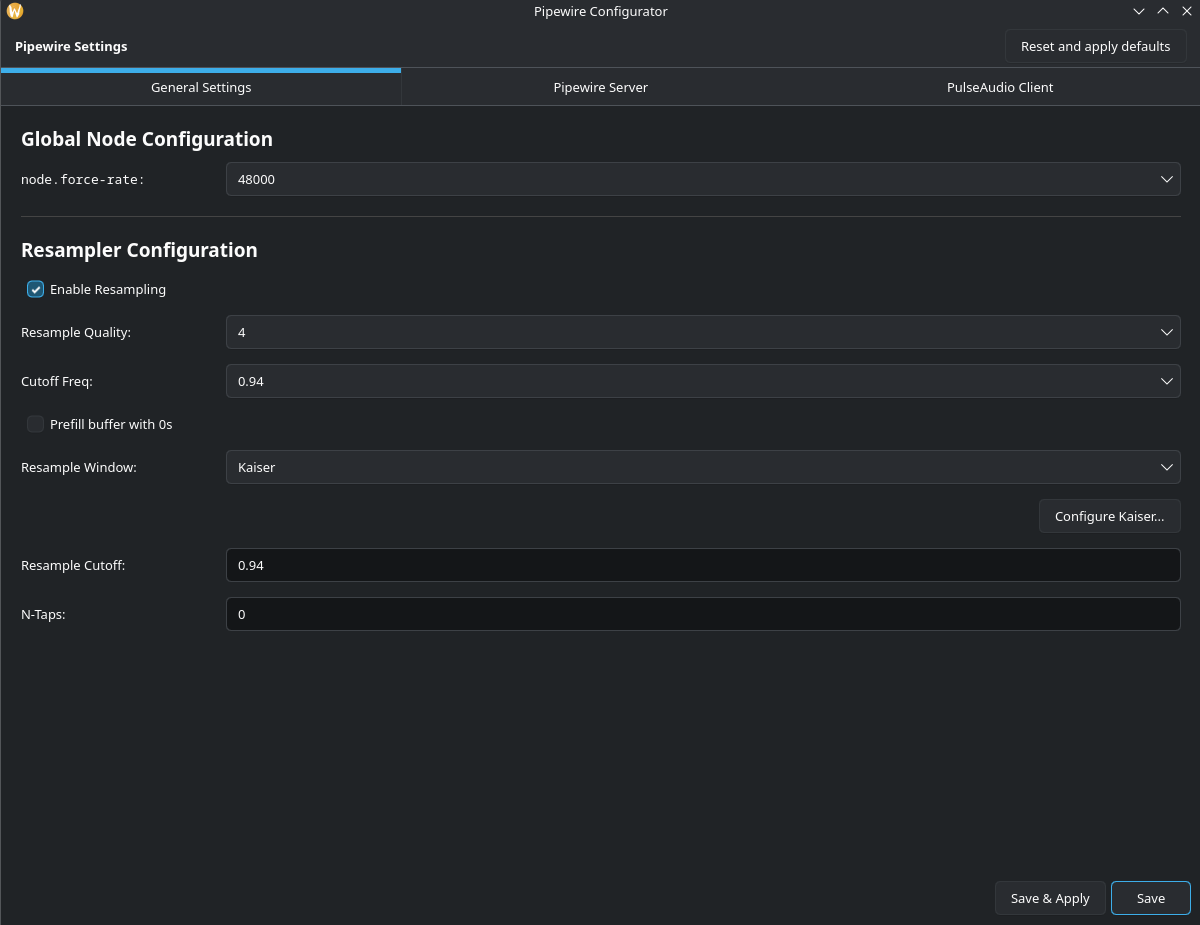
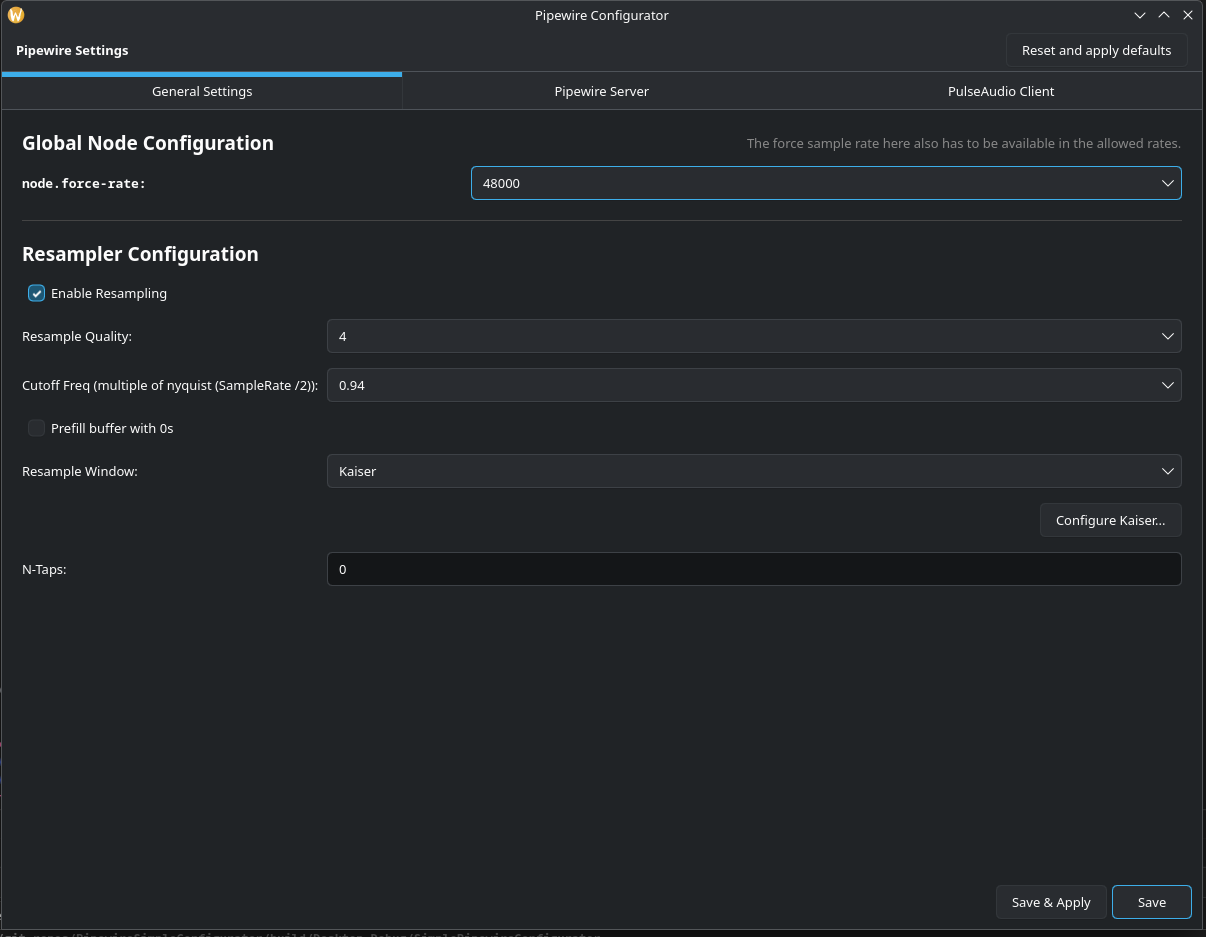
fix double option

diff --git a/Main.qml b/Main.qml
@@ -203,8 +203,6 @@ ApplicationWindow {
         kaiserStopband.text = getSetting(p + "resample.param.kaiser.stopband-attenuation") || "";
         kaiserTransitionBandwidth.text = getSetting(p + "resample.param.kaiser.transition-bandwidth") || "";
 
-        // Extra Fields
-        resampleCutoffText.text = getSetting(p + "resample.cutoff") || "";
         nTapsText.text = getSetting(p + "resample.n-taps") || "";
 
         let qNames = ["default.clock.quantum", "default.clock.min-quantum", "default.clock.max-quantum", "default.clock.quantum-floor", "default.clock.quantum-limit"];
@@ -454,7 +452,7 @@ ApplicationWindow {
                             RowLayout {
                                 Label {
                                     text: "Resample Quality:"
-                                    Layout.preferredWidth: 200
+                                    Layout.preferredWidth: 300
                                 }
                                 ComboBox {
                                     id: resampleQualityCombo
@@ -468,14 +466,14 @@ ApplicationWindow {
                             // Cutoff Frequency (0.01 - 1.00)
                             RowLayout {
                                 Label {
-                                    text: "Cutoff Freq:"
-                                    Layout.preferredWidth: 200
+                                    text: "Cutoff Freq (multiple of nyquist (SampleRate /2)):"
+                                    Layout.preferredWidth: 300
                                 }
                                 ComboBox {
                                     id: cutoffFreqCombo
                                     // Generates 0.01 to 1.00
                                     model: Array.from({
-                                        length: 100
+                                        length: 200
                                     }, (_, i) => ((i + 1) / 100).toFixed(2))
                                     Layout.fillWidth: true
                                 }
@@ -491,7 +489,7 @@ ApplicationWindow {
                             RowLayout {
                                 Label {
                                     text: "Resample Window:"
-                                    Layout.preferredWidth: 200
+                                    Layout.preferredWidth: 300
                                 }
                                 ComboBox {
                                     id: windowTypeSelector
@@ -507,24 +505,10 @@ ApplicationWindow {
                                 onClicked: configPopup.open()
                             }
 
-                            // Extra Configurable Doubles
-                            RowLayout {
-                                Label {
-                                    text: "Resample Cutoff:"
-                                    Layout.preferredWidth: 200
-                                }
-                                TextField {
-                                    id: resampleCutoffText
-                                    placeholderText: "0.0"
-                                    validator: DoubleValidator {}
-                                    Layout.fillWidth: true
-                                }
-                            }
-
                             RowLayout {
                                 Label {
                                     text: "N-Taps:"
-                                    Layout.preferredWidth: 200
+                                    Layout.preferredWidth: 300
                                 }
                                 TextField {
                                     id: nTapsText